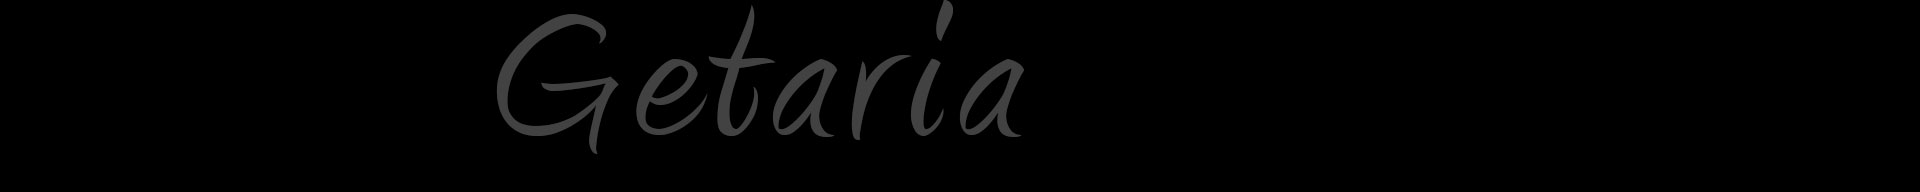
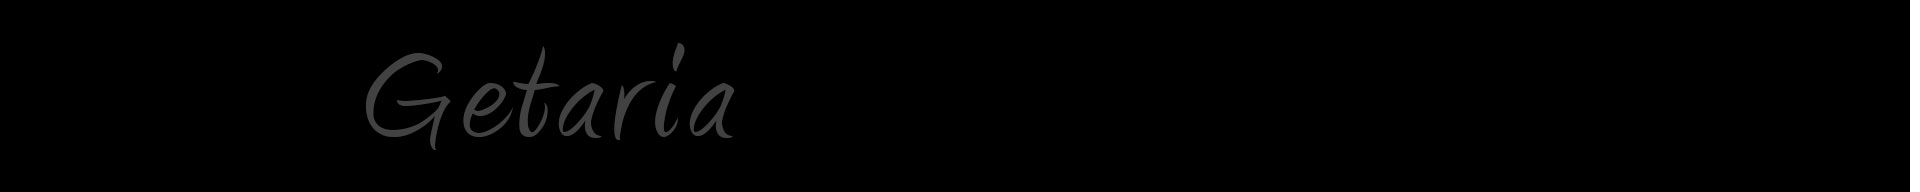
Corrijo la cabecera

Changed region(s): [[0.1875, 0.0625, 0.5312, 0.75], [0.9688, 0.0, 1.0, 1.0], [0.4688, 0.0, 0.5, 0.1875]]

diff --git a/css/style.css b/css/style.css
@@ -34,7 +34,8 @@ header.container-fluid {
   padding-top: 151px;
 }
 header.container-fluid .row.white {
-  background: url(../images/header-bg.jpg) center center no-repeat;
+  background: url(../images/header-bg.jpg) no-repeat;
+  background-size: cover;
 }
 
 #navbar {
@@ -399,8 +400,11 @@ div.slider-container div.caption a,div.slider-container div.caption a:hover{colo
  * Headers links
  */
  .header-links ul {
- 	margin-top: 5px;
- 	/*background-color: #eee;*/
+  	margin-top: 5px;
+ }
+ .header-links ul.nav {
+  	margin-top: 15px;
+  	margin-bottom: 15px;
  }
  .header-links, .header-links a {
  	color: white;

diff --git a/templates/page--front.tpl.php b/templates/page--front.tpl.php
@@ -81,7 +81,7 @@
 
     <div id="logo" class="col-sm-2 col-md-3 hidden-xs">
         <a class="" href="<?php print $front_page; ?>" title="<?php print t('Home'); ?>">
-          <img src="<?php print $logo; ?>" alt="<?php print t('Home'); ?>"  />
+          <img src="<?php print $logo; ?>" alt="<?php print t('Home'); ?>" class="img-responsive" />
         </a>
     </div>
 

diff --git a/templates/page--page.tpl.php b/templates/page--page.tpl.php
@@ -81,7 +81,7 @@
 
     <div id="logo" class="col-sm-2 col-md-3 hidden-xs">
         <a class="" href="<?php print $front_page; ?>" title="<?php print t('Home'); ?>">
-          <img src="<?php print $logo; ?>" alt="<?php print t('Home'); ?>"  />
+          <img src="<?php print $logo; ?>" alt="<?php print t('Home'); ?>" class="img-responsive" />
         </a>
     </div>
 

diff --git a/templates/page.tpl.php b/templates/page.tpl.php
@@ -82,7 +82,7 @@
 
     <div id="logo" class="col-sm-2 col-md-3 hidden-xs">
         <a class="" href="<?php print $front_page; ?>" title="<?php print t('Home'); ?>">
-          <img src="<?php print $logo; ?>" alt="<?php print t('Home'); ?>"  />
+          <img src="<?php print $logo; ?>" alt="<?php print t('Home'); ?>" class="img-responsive" />
         </a>
     </div>
 
